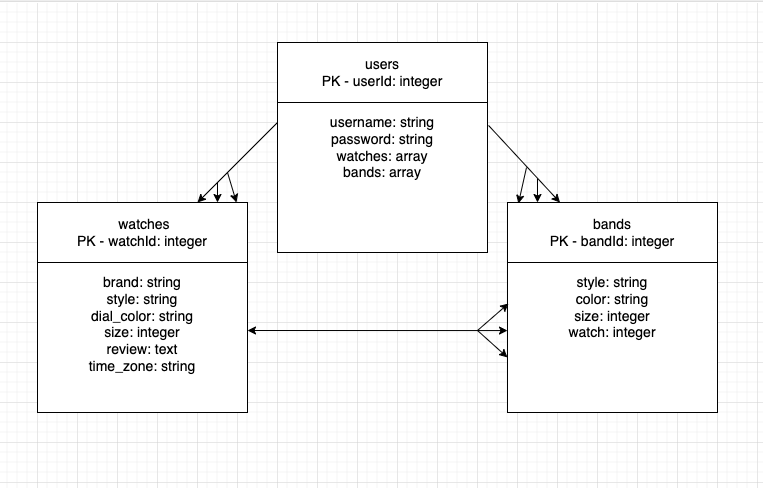
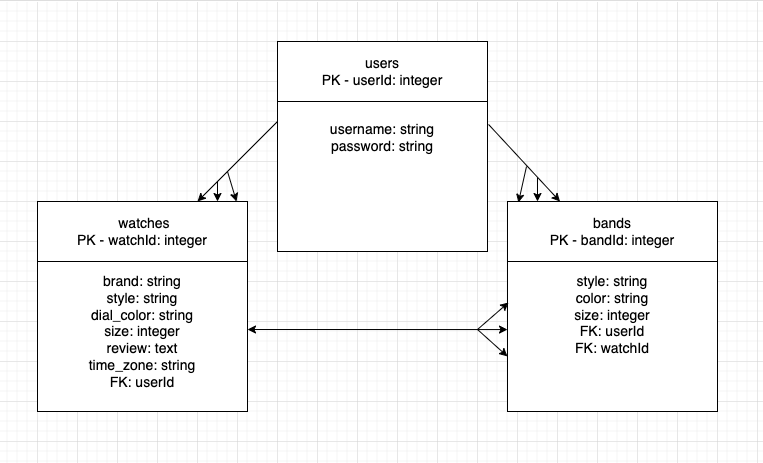
updates API and ERD

diff --git a/README.md b/README.md
@@ -15,6 +15,11 @@ HTML, CSS, JS, SQL, Express, EJS, Sequelize, API calls.
 ## API:
 https://api-ninjas.com/api/timezone - The Timezone API provides timezone data for any latitude/longitude coordinates or city in the world. 
 
+Example: 
+const url = "https://api.api-ninjas.com/v1/timezone?city=sandiego" 
+const config = { headers: { X-Api-Key: API_KEY }}
+axios.get(url, config)
+
 ## Wireframes:
 ![ERD](https://github.com/dvnilsen/GA-1114-Project-2/blob/main/Assets/ERD.png "ERD")  
 ![RESTFUL](https://github.com/dvnilsen/GA-1114-Project-2/blob/main/Assets/RESTFUL.png "RESTFUL")  
